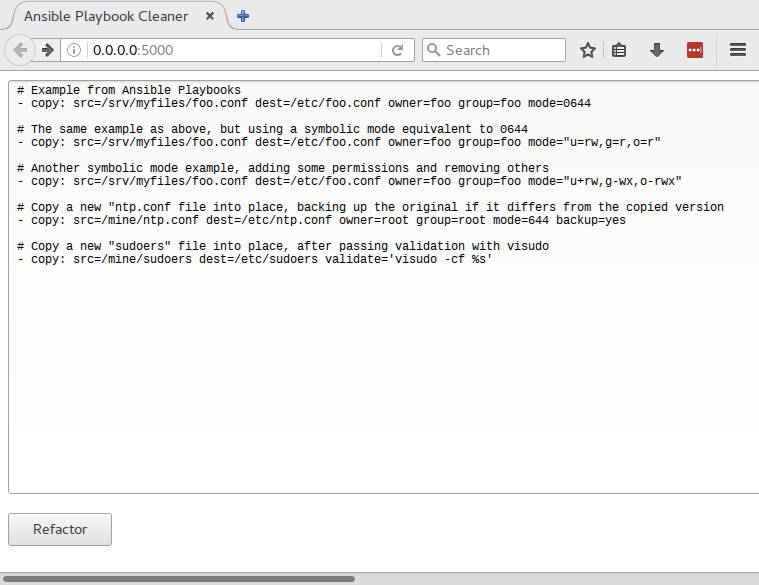
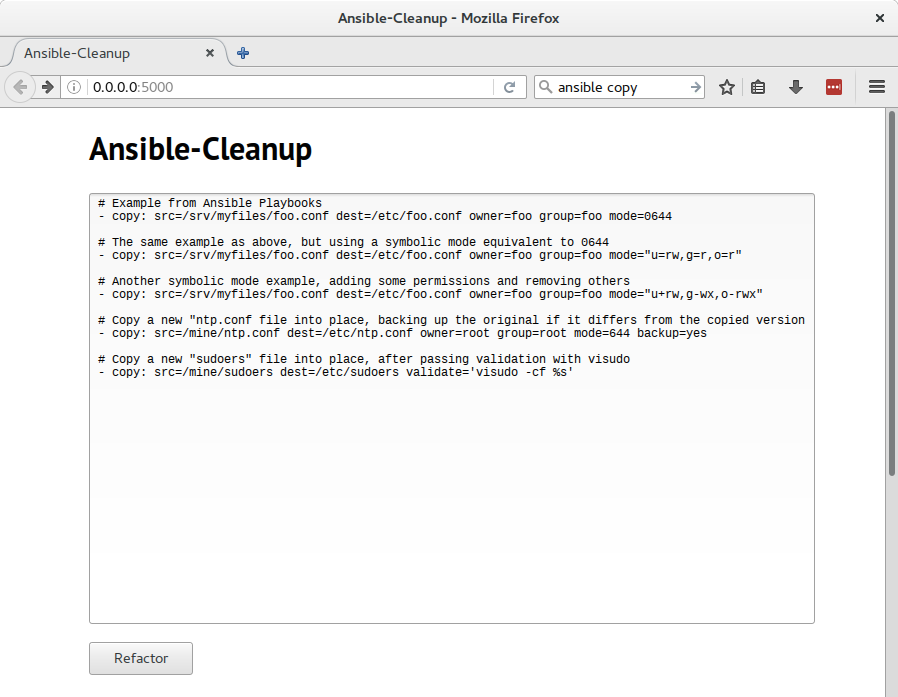
Rebranded and added details to the Readme

Changed region(s): [[0.0, 0.0, 1.0, 1.0]]

diff --git a/source/templates/base.html b/source/templates/base.html
@@ -2,18 +2,25 @@
 <html lang="en">
 <head>
     <meta charset="UTF-8">
-    <title>Ansible Playbook Cleaner</title>
+    <title>Ansible-Cleanup</title>
 
     <link rel="stylesheet" href="/static/css/base.css" />
 </head>
 <body>
-    <form action="" method="post">
-         <textarea name="bad_data" rows="30" cols="200"></textarea>
-        <p><input type=submit value=Refactor>
-    </form>
+    <div id="content">
+        <h1>Ansible-Cleanup</h1>
 
-    <div>
-        {{ refactored_data|safe }}
+        <form action="" method="post">
+             <textarea name="bad_data" id="text_area"></textarea>
+            <p><input type=submit id="submit_button" value=Refactor>
+        </form>
+
+        <h2>Usage</h2>
+        <p>Paste your playbook containing x=y keypairs into the field. Click the refactor button.</p>
+
+        <h2>About</h2>
+        <p>Ansible-Cleanup was written by Caitlin Campbell.</p>
+        <p>For more information or to file bug reports visit the project github page <a href="https://github.com/mholiv/AnsiblePlaybookCleaner/">here</a>. </p>
     </div>
 </body>
 </html>

diff --git a/source/static/css/base.css b/source/static/css/base.css
@@ -1,0 +1,23 @@
+#text_area {
+    width: 100%;
+    height: 35em;
+}
+
+body {
+    font-family: sans-serif, SansSerif;
+    padding: 0;
+    margin: 0;
+}
+
+#content {
+    width: 80%;
+    margin:0 auto 4em auto;
+}
+
+h2 {
+    margin-top: 2em;
+}
+
+a {
+    color: inherit;
+}

diff --git a/README.md b/README.md
@@ -1,29 +1,63 @@
-# AnsiblePlaybookCleaner
-Web application that dynamically refractors bad playbooks into good
-
-## Usage
-
-Launching the `playbookCleaner.py` file independently will start a publicly available web server on port 5000. You can use the software by accessing the hosted page.
-
-The web app is best used as a uwsgi app behind a proxy like nginx.
+# Ansible-Cleanup
+A simple way to refactor ansible playbooks
 
 ## Screen Shots
 
 Step 1.
 Paste in your bad playbook
-![ScreenShot](https://raw.githubusercontent.com/mholiv/AnsiblePlaybookCleaner/devel/meta/img/shot1.png)
+![ScreenShot](https://raw.githubusercontent.com/mholiv/AnsiblePlaybookCleaner/master/meta/img/shot1.png)
 
 Step 2.
 Click Refactor and view the results
-![ScreenShot](https://raw.githubusercontent.com/mholiv/AnsiblePlaybookCleaner/devel/meta/img/shot2.png)
+![ScreenShot](https://raw.githubusercontent.com/mholiv/AnsiblePlaybookCleaner/master/meta/img/shot2.png)
 
 ## Recommendations
 
 The app was written on and was designed for pypy3. Other implications of python will most likely work if the prerequisites are available, but this is not tested.
 
+##  General Usage
+
+Launching the `playbookCleaner.py` file independently will start a publicly available web server on port 5000. You can use the software by accessing the hosted page.
+
+The web app is best used as a uwsgi app behind a proxy like nginx.
+
+## Setup & Usage (GNU/Linux & OS X)
+
+This guide assumes the virtualenv, pip and, pypy3 packages are installed. If they are not consult your operating system's documentation on how to install them. 
+
+1. Set up the virtual python environment
+`mkdir Ansible-Cleanup`
+
+2. Create the virtual environment
+`virtualenv -p pypy3 Ansible-Cleanup`
+
+3. Enter and activate the virtual environment
+`cd Ansible-Cleanup`
+`source bin/activate`
+
+4. Download Ansible-Cleanup
+`git clone https://github.com/mholiv/Ansible-Cleanup.git`
+
+5. Install the Ansible-Cleanup Prerequisites
+`pip install -r Ansible-Cleanup/source/requirements.txt`
+
+6. Edit the `Ansible-Cleanup/source/settings.yml` file. Be sure to replace the secret key with a randomly generated hex string.
+
+7. Launch the Ansible-Cleanup web server
+`cd Ansible-Cleanup/source/`
+`pypy3 playbookCleaner.py`
+
+8. A web server will launch on port 5000. You can access it at http://127.0.0.1:5000
+
+Note: In order to launch the web server in the future you will need to reactivate the virtual environment.
 ## Known Bugs
 
-The app does not preserve comments.
+- The app does not preserve comments.
+- The ordering of elements is subject to change
+
+## Upcoming Features
+- Comment Preservation
+- The ability to specify element ordering weight
 
 ## Requirements
 - pypy3 or other implementations of python 3.2.5 or later
